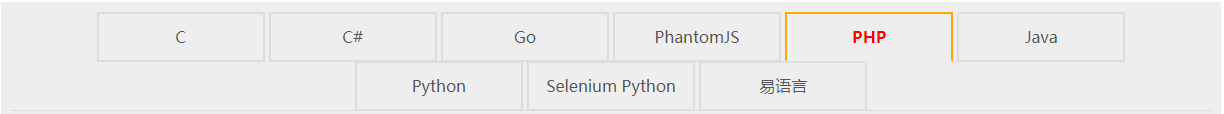
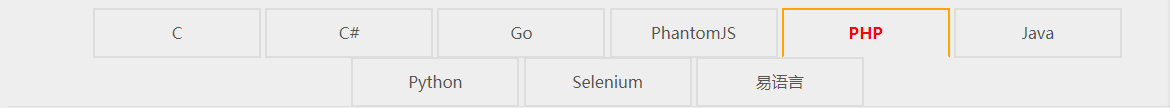
首次push

diff --git a/index.html b/index.html
@@ -272,7 +272,7 @@ input:checked + label {
             <label class="demo-label-tab" for="tab-python">Python</label>
 
             <input class="demo-input-tab" id="tab-selenium-python" type="radio" name="tabs">
-            <label class="demo-label-tab" for="tab-selenium-python">Selenium Python</label>
+            <label class="demo-label-tab" for="tab-selenium-python">Selenium</label>
 
             <input class="demo-input-tab" id="tab-yiyuyan" type="radio" name="tabs">
             <label class="demo-label-tab" for="tab-yiyuyan">易语言</label>
@@ -827,7 +827,7 @@ print resp.text
             </section>
 
             <section class="demo-section" id="content-selenium-python">
-                <h1 class="demo-h1">Seleniumpython 示例<font style="font-weight:normal; font-size: 0.8em; color: #00f;">
+                <h1 class="demo-h1">Selenium 示例<font style="font-weight:normal; font-size: 0.8em; color: #00f;">
                 </font></h1>
                 <pre><code class="language-java">/**
  * Seleniumpython 支持 http、socks5

diff --git a/README.md b/README.md
@@ -555,7 +555,7 @@ phantomjs --proxy=ip:port --proxy-type=[http|socks5|none] demo.js
 <br/>
 
 
-#### 8. Seleniumpython 设置代理
+#### 8. Selenium 设置代理
 
 ```
 #coding=utf-8
